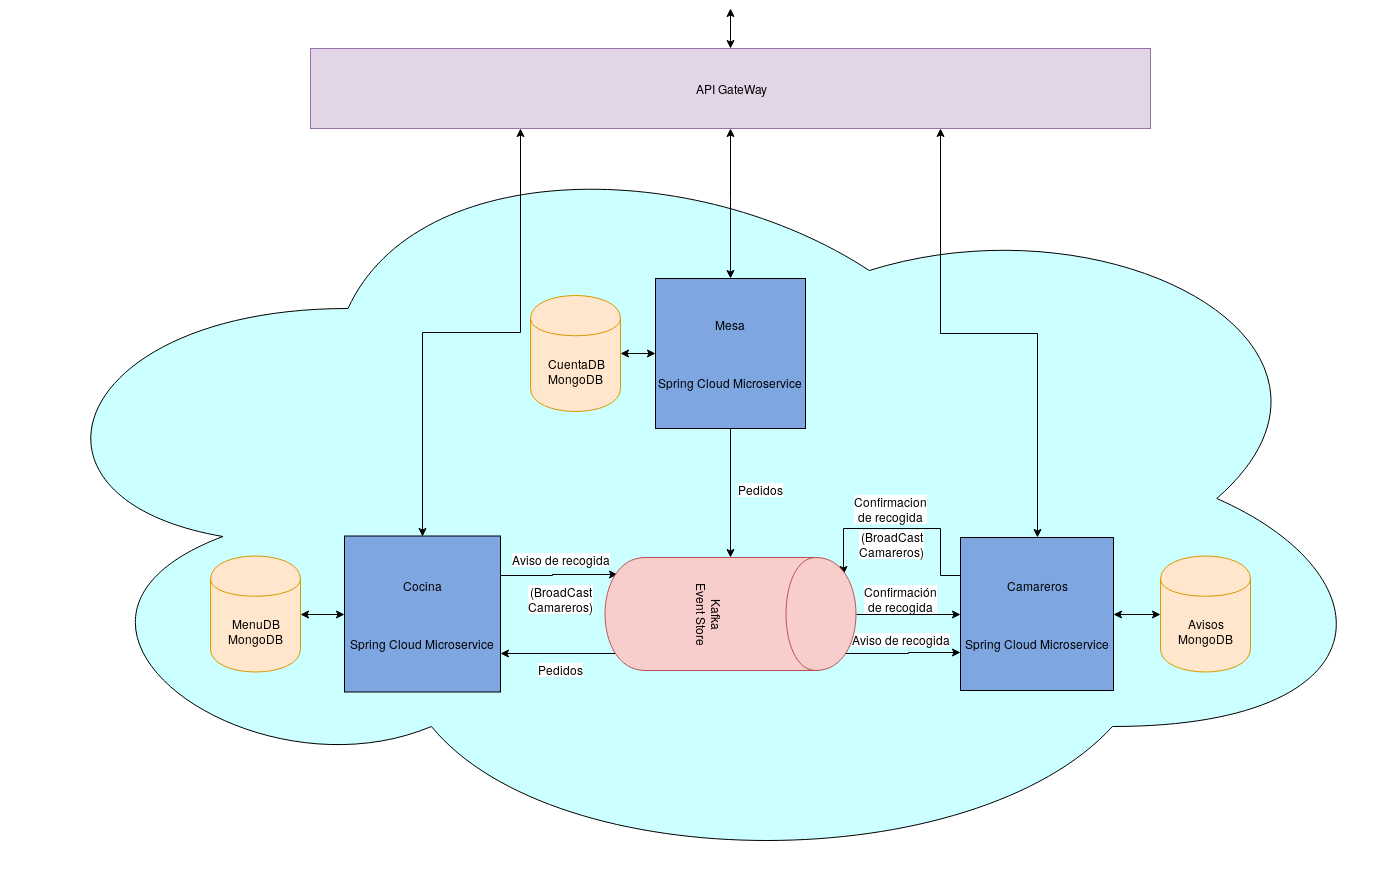
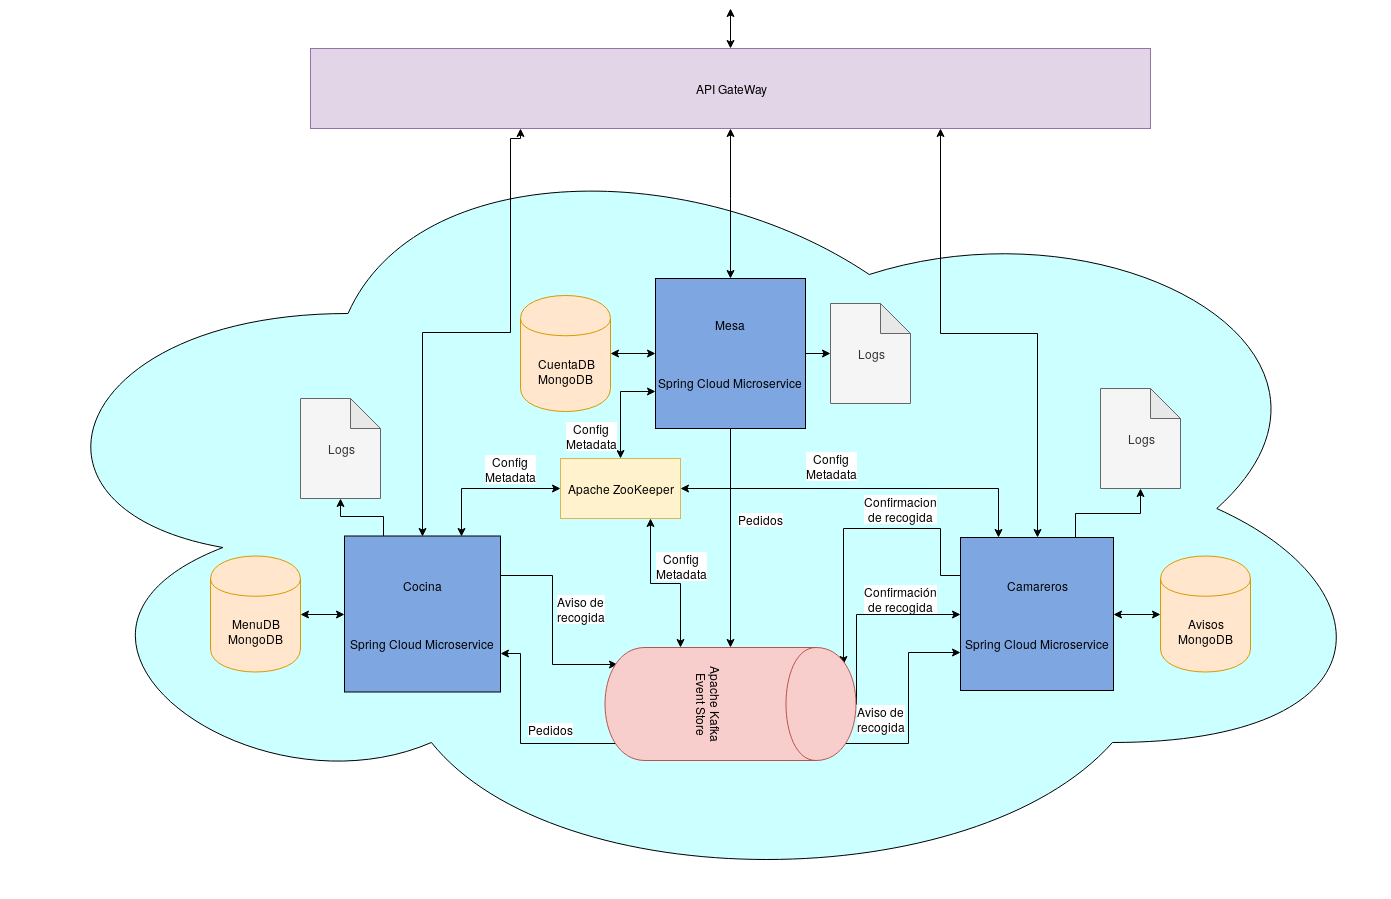
Mejorada Arquitectura. Añadido metodo de comunicación con la ApiGateway

diff --git a/README.md b/README.md
@@ -33,9 +33,11 @@ Un **caso de uso** sería:
 Finalmente se deja abierta la **conexión a otros servicios**, como un procesador de pagos,  para gestionar los pagos que se guardaron en la mesa.
 
 Como **lenguajes**: 
-* Para la creación de microservicios se usara **Java** junto con los frameworks **Spring Boot** y **Spring Cloud**. 
-* Para el manejador de eventos se usara **Kafka**.
-* Para las bases de datos se usara **MongoDB**.
+* Para la creación de microservicios se usará **Java** junto con los frameworks **Spring Boot** y **Spring Cloud**. 
+* Para el manejador de eventos se usará **Apache Kafka**.
+* Para la configuración distribuida se usará **Apache ZooKeeper**
+* Para las bases de datos se usará **MongoDB**.
+* Para la comunicación con el **ApiGateway** se usarán peticiones **HTTP**.
 * Y por último se usara **Json** para el envio de información en las comuniciones.
 
 [Volver al Index](https://antmordhar.github.io/ProyectoCC/)
